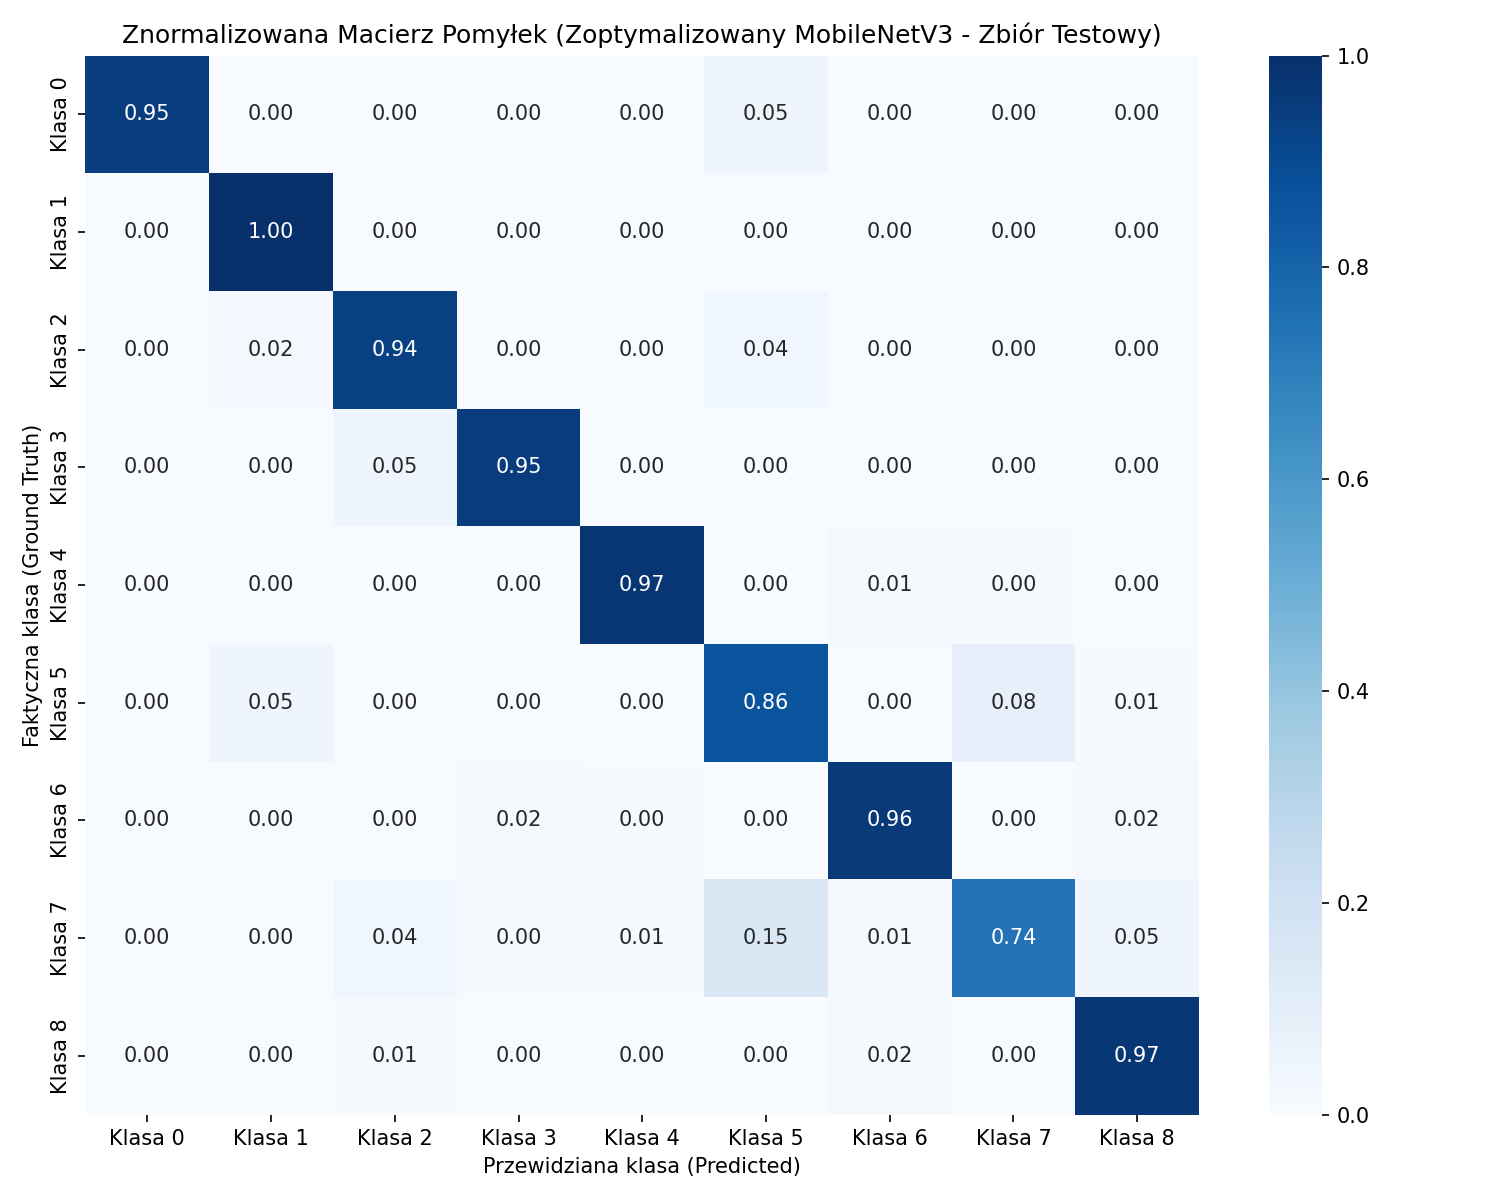
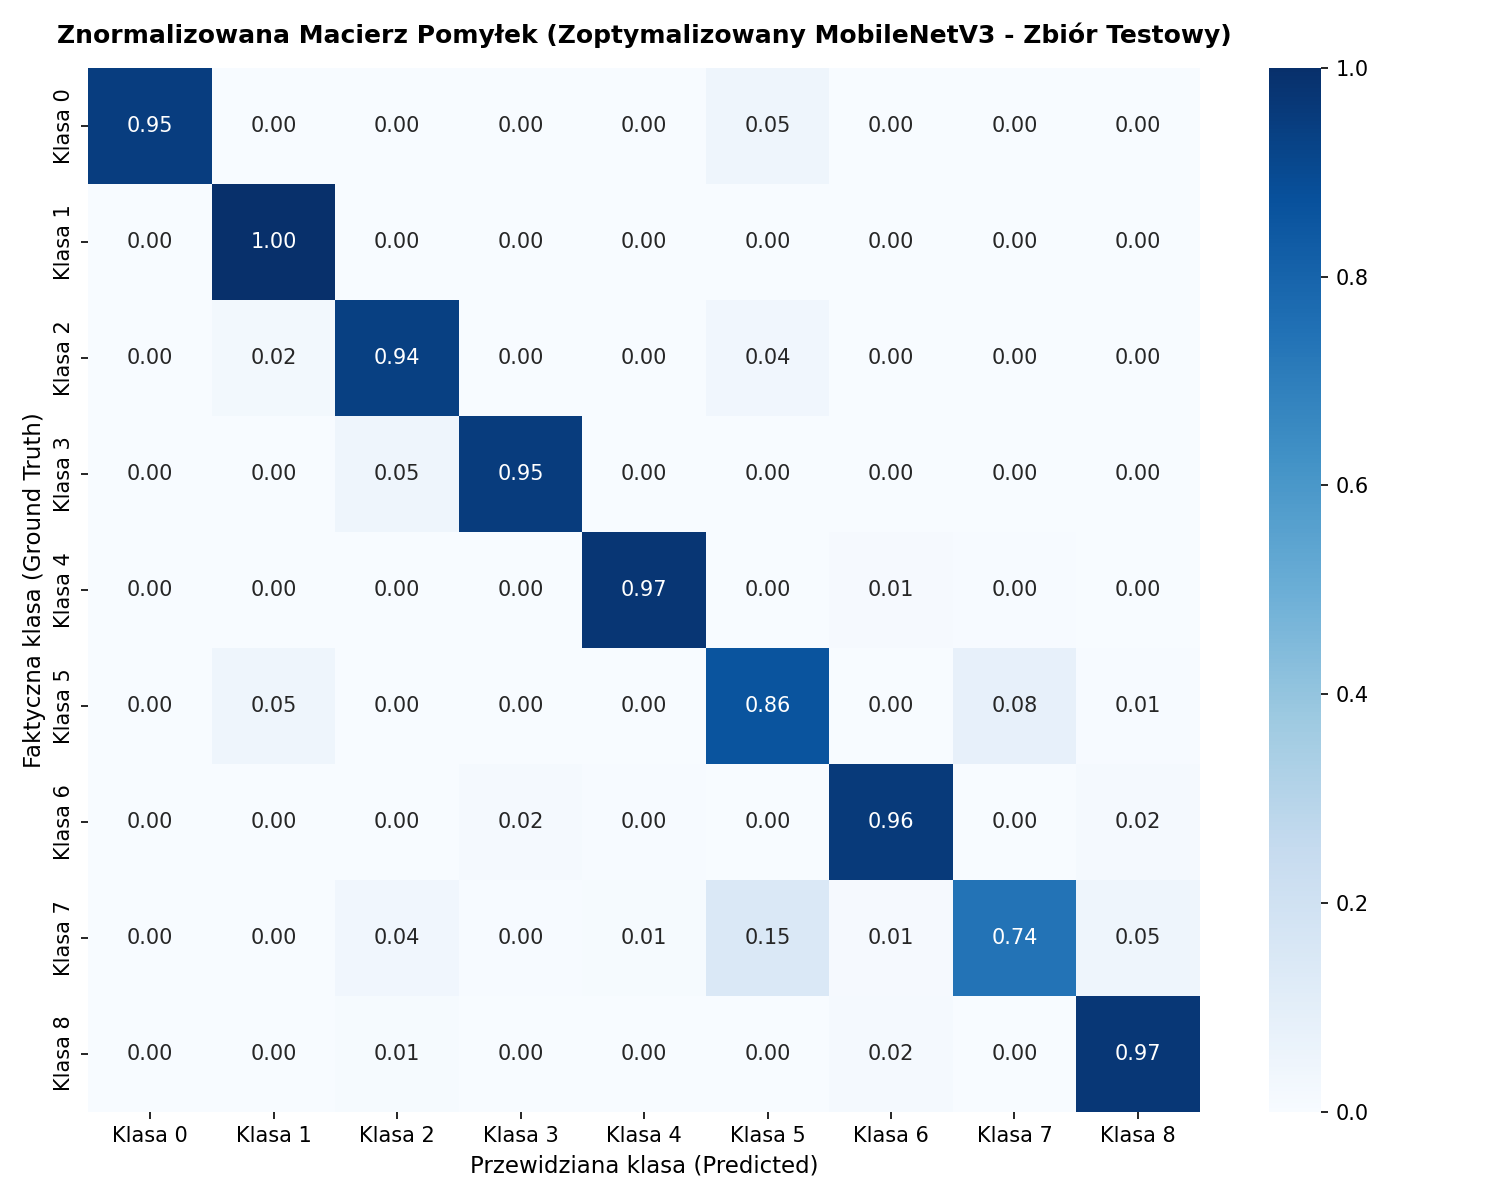
Final evaluation and charts

diff --git a/src/final_evaluate.py b/src/final_evaluate.py
@@ -3,31 +3,33 @@ import json
 import numpy as np
 import torch
 import torch.nn as nn
+import torch.nn.functional as F
 from torch.utils.data import DataLoader
 import matplotlib.pyplot as plt
 import seaborn as sns
-from sklearn.metrics import classification_report, confusion_matrix
+from sklearn.metrics import classification_report, confusion_matrix, roc_curve, auc
 
-# import global seeda
+# import global seeda i fabryki modeli
 from src.config import GLOBAL_SEED, set_seed
 from src.models import model_factory
 from src.data_loader import load_and_prepare_data
 
-# inicjalizacja środowiska
+# inicjalizacja środowiska dla pełnej powtarzalności wyników
 set_seed()
 DEVICE = torch.device("cuda" if torch.cuda.is_available() else "cpu")
 
 def main():
     base_dir = os.path.dirname(os.path.dirname(os.path.abspath(__file__)))
     model_path = os.path.join(base_dir, "models", "final_model", "mobilenetv3_final_optimized.pth")
-    final_model_dir = os.path.join(base_dir, "results", "final_model")
+    final_model_dir = os.path.join(base_dir, "results", "final_model") # ostateczna lokalizacja na wykresy i raporty
+    os.makedirs(final_model_dir, exist_ok=True)
     
-    print("=== START: FINAL_EVALUATE (CENTRUM ANALITYCZNO-WYKRESOWE) ===")
+    print("=== START: FINAL_EVALUATE (ZAAWANSOWANE CENTRUM ANALITYCZNO-WYKRESOWE) ===")
     
     if not os.path.exists(model_path):
         raise FileNotFoundError(f"Nie znaleziono zapisanego modelu wag pod ścieżką: {model_path}. Uruchom najpierw trening finalny!")
 
-    # wczytanie danych (tylko podzbiór testowy) i zamrożonego modelu
+    # 1. ŁADOWANIE ZBIORU TESTOWEGO I ZAMROŻONEGO MODELU
     _, _, test_dataset = load_and_prepare_data()
     test_loader = DataLoader(test_dataset, batch_size=64, shuffle=False, num_workers=0)
     
@@ -38,9 +40,9 @@ def main():
     
     all_preds = []
     all_labels = []
+    all_probs = [] # zbieranie surowych prawdopodobieństw Softmax potrzebnych do krzywych ROC
     
-    # ostateczny sprawdzian na zbiorze testowym
-    print("[EVAL] Rozpoczynanie oficjalnego testu końcowego (inferencja)...")
+    print("[EVAL] Rozpoczynanie oficjalnego testu końcowego na ukrytym zbiorze testowym...")
     with torch.no_grad():
         for images, labels in test_loader:
             images, labels = images.to(DEVICE), labels.to(DEVICE)
@@ -48,15 +50,18 @@ def main():
                 labels = labels.squeeze(1)
                 
             outputs = model(images)
+            probs = F.softmax(outputs, dim=1) # konwersja logitów na rozkład prawdopodobieństwa
             _, predicted = torch.max(outputs.data, 1)
             
             all_preds.extend(predicted.cpu().numpy())
             all_labels.extend(labels.cpu().numpy())
+            all_probs.extend(probs.cpu().numpy())
             
     all_preds = np.array(all_preds)
     all_labels = np.array(all_labels)
+    all_probs = np.array(all_probs)
             
-    # generowanie raportu klasyfikacji (wariant tekstowy i słownik pod JSON)
+    # 2. GENEROWANIE I ZAPIS RAPORTU KLASYFIKACJI (TEKST ORAZ STRUCTURALNY JSON)
     class_names = [f"Klasa {i}" for i in range(9)]
     report_text = classification_report(all_labels, all_preds, target_names=class_names, digits=4)
     report_dict = classification_report(all_labels, all_preds, target_names=class_names, digits=4, output_dict=True)
@@ -64,30 +69,84 @@ def main():
     print("\n--- KOŃCOWY RAPORT KLASYFIKACJI (ZBIÓR TESTOWY) ---")
     print(report_text)
     
-    # zapis raportu do pliku JSON w ./results/final_model
     json_report_path = os.path.join(final_model_dir, "final_classification_report.json")
     with open(json_report_path, "w") as f:
         json.dump(report_dict, f, indent=4)
     print(f"[SUKCES] Strukturalny raport JSON zapisany w: {json_report_path}")
         
-    # generowanie i rysowanie Znormalizowanej Macierzy Pomyłek do ./results/final_model
+    # 3. WYKRES 1: ZNORMALIZOWANA MACIERZ POMYŁEK
     cm = confusion_matrix(all_labels, all_preds)
     cm_normalized = cm.astype('float') / cm.sum(axis=1)[:, np.newaxis]
     
     plt.figure(figsize=(10, 8), dpi=150)
     sns.heatmap(cm_normalized, annot=True, fmt=".2f", cmap="Blues", xticklabels=class_names, yticklabels=class_names)
-    plt.title("Znormalizowana Macierz Pomyłek (Zoptymalizowany MobileNetV3 - Zbiór Testowy)")
-    plt.ylabel("Faktyczna klasa (Ground Truth)")
-    plt.xlabel("Przewidziana klasa (Predicted)")
+    plt.title("Znormalizowana Macierz Pomyłek (Zoptymalizowany MobileNetV3 - Zbiór Testowy)", fontsize=12, fontweight='bold', pad=12)
+    plt.ylabel("Faktyczna klasa (Ground Truth)", fontsize=11)
+    plt.xlabel("Przewidziana klasa (Predicted)", fontsize=11)
     plt.tight_layout()
     
     matrix_path = os.path.join(final_model_dir, "final_confusion_matrix.png")
     plt.savefig(matrix_path)
     plt.close()
-    print(f"[SUKCES] Macierz pomyłek zapisana w: {matrix_path}")
+    print(f"[SUKCES] Wykres 1 (Macierz pomyłek) zapisany w: {matrix_path}")
 
-    # automatyczne wczytanie historii i rysowanie krzywych uczenia (Loss i Accuracy)
-    print("\n=== GENEROWANIE WYKRESÓW KRZYWYCH UCZENIA ===")
+    # 4. WYKRES 2: PROFILE METRYK PER-KLASA (WYKRES SŁUPKOWY PORÓWNAWCZY)
+    precisions = [report_dict[f"Klasa {i}"]["precision"] for i in range(9)]
+    recalls = [report_dict[f"Klasa {i}"]["recall"] for i in range(9)]
+    f1_scores = [report_dict[f"Klasa {i}"]["f1-score"] for i in range(9)]
+    
+    x = np.arange(9)
+    width = 0.25
+    
+    plt.figure(figsize=(12, 6), dpi=150)
+    sns.set_theme(style="whitegrid")
+    
+    plt.bar(x - width, precisions, width, label='Precision', color='#A0C4DF')
+    plt.bar(x, recalls, width, label='Recall (Czułość)', color='#4B86B4')
+    plt.bar(x + width, f1_scores, width, label='F1-Score', color='#0B3C5D')
+    
+    plt.title("Profil wydajności klasyfikatora dla poszczególnych klas (Zbiór Testowy)", fontsize=14, fontweight='bold', pad=15)
+    plt.xlabel("Klasy tkankowe PathMNIST", fontsize=12)
+    plt.ylabel("Wartość metryki", fontsize=12)
+    plt.xticks(x, class_names)
+    plt.ylim(0, 1.05)
+    plt.legend(fontsize=11, loc="lower right")
+    plt.tight_layout()
+    
+    bar_chart_path = os.path.join(final_model_dir, "test_metrics_bar_chart.png")
+    plt.savefig(bar_chart_path)
+    plt.close()
+    print(f"[SUKCES] Wykres 2 (Słupkowy profil metryk) zapisany w: {bar_chart_path}")
+
+    # 5. WYKRES 3: WIELOKLASOWE KRZYWE ROC I OBLICZANIE AUC PER-CLASS
+    plt.figure(figsize=(10, 8), dpi=150)
+    
+    # Obliczanie krzywej ROC i wskaźnika AUC osobno dla każdej z 9 klas (One-vs-Rest)
+    for i in range(9):
+        # Stworzenie binarnej tablicy (1 dla sprawdzanej klasy, 0 dla pozostałych)
+        binary_labels = (all_labels == i).astype(int)
+        fpr, tpr, _ = roc_curve(binary_labels, all_probs[:, i])
+        roc_auc = auc(fpr, tpr)
+        plt.plot(fpr, tpr, linewidth=2, label=f'Klasa {i} (AUC = {roc_auc:.4f})')
+        
+    # Rysowanie przekątnej linii referencyjnej (klasyfikator losowy)
+    plt.plot([0, 1], [0, 1], 'k--', linewidth=1.5, label='Klasyfikator losowy (AUC = 0.5000)')
+    plt.xlim([0.0, 1.0])
+    plt.ylim([0.0, 1.05])
+    plt.xlabel('False Positive Rate (1 - Specyficzność)', fontsize=11)
+    plt.ylabel('True Positive Rate (Czułość / Recall)', fontsize=11)
+    plt.title('Krzywe ROC (Receiver Operating Characteristic) - MobileNetV3', fontsize=13, fontweight='bold', pad=12)
+    plt.legend(loc="lower right", fontsize=10)
+    plt.grid(True, linestyle=":", alpha=0.6)
+    plt.tight_layout()
+    
+    roc_path = os.path.join(final_model_dir, "multiclass_roc_curves.png")
+    plt.savefig(roc_path)
+    plt.close()
+    print(f"[SUKCES] Wykres 3 (Krzywe ROC/AUC) zapisany w: {roc_path}")
+
+    # 6. AUTOMATYCZNE WYCZYTANIE HISTORII Z JSON I RYSOWANIE KRZYWYCH UCZENIA (WYKRES 4 i 5)
+    print("\n=== REKONSTRUKCJA TRAJEKTORII EPOK Z PLIKU HISTORII ===")
     history_path = os.path.join(final_model_dir, "training_history.json")
     
     if os.path.exists(history_path):
@@ -96,53 +155,46 @@ def main():
             
         epochs_range = list(range(1, len(history["train_loss"]) + 1))
         
-        # styl wykresu
-        sns.set_theme(style="whitegrid")
-        
-        # wykres 1 - funkcja straty do ./results/final_model
-        plt.figure(figsize=(10, 6), dpi=150)
+        # Wykres 4 - Krzywa funkcji straty (Loss Curve)
+        plt.figure(figsize=(10, 5), dpi=150)
         plt.plot(epochs_range, history["train_loss"], label="Strata treningowa (Train Loss)", color="#A0C4DF", linestyle="--", marker="o", linewidth=2)
         plt.plot(epochs_range, history["val_loss"], label="Strata walidacyjna (Val Loss)", color="#0B3C5D", linestyle="-", marker="s", linewidth=2.5)
         if len(epochs_range) >= 11:
             plt.axvline(x=11, color="green", linestyle=":", alpha=0.7, label="Najlepsza epoka (Checkpoint)")
-        plt.title("Krzywa fungsi straty - Zoptymalizowany MobileNetV3 (Faza 3)", fontsize=14, fontweight='bold', pad=15)
-        plt.xlabel("Epoki", fontsize=12)
-        plt.ylabel("Wartość Loss", fontsize=12)
-        plt.xticks(epochs_range)
-        plt.legend(fontsize=11, loc="upper right")
+        plt.title("Krzywa funkcji straty - Zoptymalizowany MobileNetV3 (Faza 3)", fontsize=13, fontweight='bold')
+        plt.xlabel("Epoki"); plt.ylabel("Wartość Loss"); plt.xticks(epochs_range)
+        plt.legend(fontsize=10, loc="upper right")
         plt.tight_layout()
         
         loss_path = os.path.join(final_model_dir, "final_loss_curve.png")
         plt.savefig(loss_path)
         plt.close()
-        print(f"[SUKCES] Wykres funkcji straty zapisany w: {loss_path}")
+        print(f"[SUKCES] Wykres 4 (Krzywa Loss) zapisany w: {loss_path}")
         
-        # wykres 2 - funkcja celności do ./results/final_model
-        plt.figure(figsize=(10, 6), dpi=150)
+        # Wykres 5 - Krzywa celności (Accuracy Curve)
+        plt.figure(figsize=(10, 5), dpi=150)
         plt.plot(epochs_range, history["train_acc"], label="Celność treningowa (Train Acc)", color="#A0C4DF", linestyle="--", marker="o", linewidth=2)
         plt.plot(epochs_range, history["val_acc"], label="Celność walidacyjna (Val Acc)", color="#0B3C5D", linestyle="-", marker="s", linewidth=2.5)
         if len(epochs_range) >= 11:
             plt.axvline(x=11, color="green", linestyle=":", alpha=0.7, label="Najlepsza epoka (99.28%)")
         
-        # formatowanie osi Y na procenty
+        # formatowanie osi Y na czytelne procenty
         ax = plt.gca()
         ax.set_yticklabels([f"{x*100:.0f}%" for x in ax.get_yticks()])
         
-        plt.title("Krzywa celności - Zoptymalizowany MobileNetV3 (Faza 3)", fontsize=14, fontweight='bold', pad=15)
-        plt.xlabel("Epoki", fontsize=12)
-        plt.ylabel("Celność (Accuracy)", fontsize=12)
-        plt.xticks(epochs_range)
-        plt.legend(fontsize=11, loc="lower right")
+        plt.title("Krzywa celności - Zoptymalizowany MobileNetV3 (Faza 3)", fontsize=13, fontweight='bold')
+        plt.xlabel("Epoki"); plt.ylabel("Celność (Accuracy)"); plt.xticks(epochs_range)
+        plt.legend(fontsize=10, loc="lower right")
         plt.tight_layout()
         
         acc_path = os.path.join(final_model_dir, "final_accuracy_curve.png")
         plt.savefig(acc_path)
         plt.close()
-        print(f"[SUKCES] Wykres celności zapisany w: {acc_path}")
+        print(f"[SUKCES] Wykres 5 (Krzywa Accuracy) zapisany w: {acc_path}")
     else:
-        print("[UWAGA] Nie znaleziono pliku training_history.json. Wykresy krzywych nie mogły zostać wygenerowane.")
+        print("[UWAGA] Nie znaleziono pliku training_history.json. Wykresy krzywych uczenia zostały pominięte.")
         
-    print("\n=== PROCES ETAPU 3 ZAKOŃCZONY PEŁNYM SUKCESEM ===")
+    print("\n=== PROCES EVALUACJI KOŃCOWEJ ZAKOŃCZONY PEŁNYM SUKCESEM ===")
 
 if __name__ == "__main__":
     main()